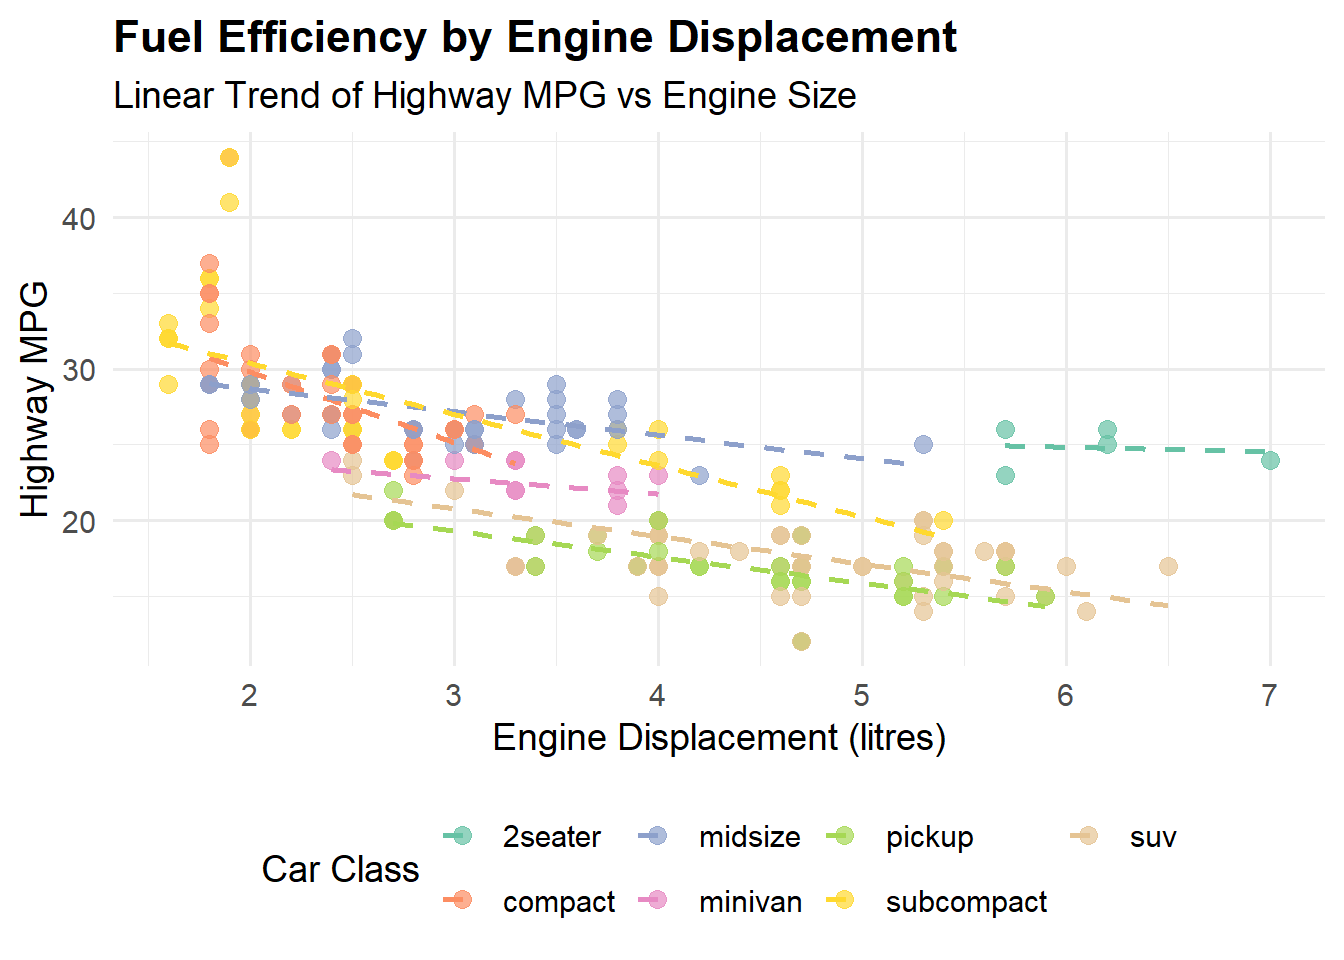
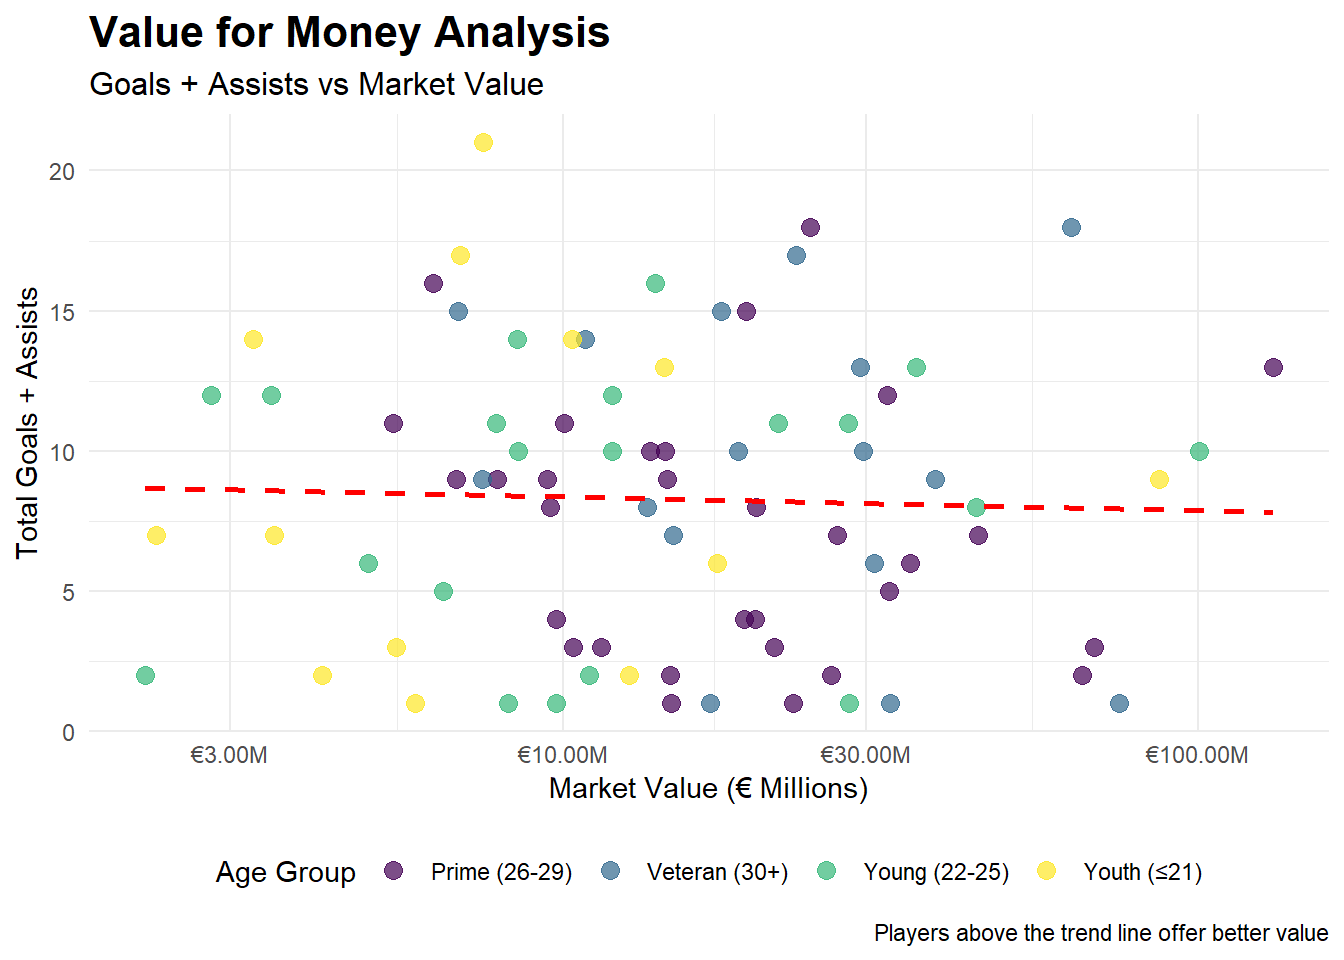
Built site for gh-pages

diff --git a/Class-2025.html b/Class-2025.html
@@ -6,6 +6,7 @@
 
 <meta name="viewport" content="width=device-width, initial-scale=1.0, user-scalable=yes">
 
+<meta name="author" content="M USMAN">
 
 <title>Economics Connectedness</title>
 <style>
@@ -53,6 +54,12 @@ ul.task-list li input[type="checkbox"] {
 
 <div class="quarto-title-meta">
 
+    <div>
+    <div class="quarto-title-meta-heading">Author</div>
+    <div class="quarto-title-meta-contents">
+             <p>M USMAN </p>
+          </div>
+  </div>
     
   
     
@@ -64,12 +71,158 @@ ul.task-list li input[type="checkbox"] {
 
 
 <div class="cell">
+<div class="cell-output cell-output-stdout">
+<pre><code>[1] "Creating Football Recruitment Dashboard..."</code></pre>
+</div>
 <div class="cell-output-display">
 <div>
 <figure class="figure">
 <p><img src="Class-2025_files/figure-html/unnamed-chunk-2-1.png" class="img-fluid figure-img" width="672"></p>
 </figure>
 </div>
+</div>
+<div class="cell-output-display">
+<div>
+<figure class="figure">
+<p><img src="Class-2025_files/figure-html/unnamed-chunk-2-2.png" class="img-fluid figure-img" width="672"></p>
+</figure>
+</div>
+</div>
+<div class="cell-output-display">
+<div>
+<figure class="figure">
+<p><img src="Class-2025_files/figure-html/unnamed-chunk-2-3.png" class="img-fluid figure-img" width="672"></p>
+</figure>
+</div>
+</div>
+<div class="cell-output-display">
+<div>
+<figure class="figure">
+<p><img src="Class-2025_files/figure-html/unnamed-chunk-2-4.png" class="img-fluid figure-img" width="672"></p>
+</figure>
+</div>
+</div>
+<div class="cell-output-display">
+<div>
+<figure class="figure">
+<p><img src="Class-2025_files/figure-html/unnamed-chunk-2-5.png" class="img-fluid figure-img" width="672"></p>
+</figure>
+</div>
+</div>
+<div class="cell-output-display">
+<div>
+<figure class="figure">
+<p><img src="Class-2025_files/figure-html/unnamed-chunk-2-6.png" class="img-fluid figure-img" width="672"></p>
+</figure>
+</div>
+</div>
+<div class="cell-output cell-output-stdout">
+<pre><code>
+=== RECRUITMENT INSIGHTS ===</code></pre>
+</div>
+<div class="cell-output cell-output-stdout">
+<pre><code>
+TOP VALUE PLAYERS (High performance, low cost):</code></pre>
+</div>
+<div class="cell-output cell-output-stdout">
+<pre><code>  player_name position age     league market_value goals assists value_score
+1   Player 64       CB  18    Ligue 1      3251542    12       2    4.305650
+2   Player 38      CDM  22 Bundesliga      2790588    12       0    4.300169
+3   Player 17       RB  22    Serie A      3473452     4       8    3.454776
+4    Player 5       ST  20 Bundesliga      2291984     7       0    3.054122
+5   Player 35       RB  18    Ligue 1      7493210    16       5    2.802537</code></pre>
+</div>
+<div class="cell-output cell-output-stdout">
+<pre><code>
+YOUNG TALENTS (Under 23 with high potential):</code></pre>
+</div>
+<div class="cell-output cell-output-stdout">
+<pre><code>  player_name age position         league overall_rating market_value
+1   Player 50  22       RW Premier League       87.39601      9776656
+2   Player 35  18       RB        Ligue 1       86.18502      7493210
+3   Player 58  22      CDM        La Liga       83.99666      4939699
+4   Player 63  19       CM        Ligue 1       83.30241     10357874
+5   Player 11  21      CDM Premier League       83.17302      4185651</code></pre>
+</div>
+<div class="cell-output cell-output-stdout">
+<pre><code>
+INJURY-FREE PERFORMERS (Low injury risk):</code></pre>
+</div>
+<div class="cell-output cell-output-stdout">
+<pre><code>  player_name position age injury_days overall_rating market_value
+1   Player 55       GK  26           2       86.16600      6253732
+2   Player 45       CB  26           3       81.57728     26448878
+3   Player 72      CDM  32          10       80.90582     18860733
+4   Player 34       GK  31           9       80.22906     32725826
+5    Player 2       LB  32           0       77.30638     30878337</code></pre>
+</div>
+<div class="cell-output cell-output-stdout">
+<pre><code>
+=== END OF ANALYSIS ===</code></pre>
+</div>
+</div>
+<div class="cell">
+<div class="cell-output-display">
+<div>
+<figure class="figure">
+<p><img src="Class-2025_files/figure-html/unnamed-chunk-3-1.png" class="img-fluid figure-img" width="672"></p>
+</figure>
+</div>
+</div>
+<div class="cell-output cell-output-stdout">
+<pre><code>
+INTERPRETING THE VISUALIZATION:
+
+This compelling visualization reveals the profound relationship between economic prosperity 
+and human health outcomes across the globe. The clear upward trajectory demonstrates that 
+as GDP per capita increases, life expectancy consistently rises, suggesting that economic 
+development translates into better healthcare, nutrition, sanitation, and living conditions. 
+
+The logarithmic scale on the x-axis reveals that the most dramatic health improvements occur 
+when countries transition from extreme poverty to lower-middle income status - moving from 
+$500 to $5,000 per capita yields greater life expectancy gains than moving from $5,000 to 
+$50,000. This pattern highlights the critical importance of addressing basic needs and 
+infrastructure in developing nations.
+
+Continental clustering patterns are particularly striking: African nations predominantly 
+occupy the lower-left quadrant with lower GDP and life expectancy, while European countries 
+cluster in the upper-right with high values for both metrics. Asian countries show the 
+greatest diversity, spanning the entire spectrum and representing various stages of 
+development. The Americas display a clear north-south divide, with North American countries 
+achieving higher outcomes than their southern counterparts.
+
+Notably, some countries defy the general trend - appearing as outliers that achieve 
+relatively high life expectancy despite modest economic resources, often reflecting 
+effective public health policies, while others underperform relative to their wealth, 
+possibly due to inequality or policy failures. The bubble sizes remind us that population 
+scale matters: improvements in large countries like China and India have enormous global 
+impact, while smaller nations may achieve impressive per-capita metrics without affecting 
+global averages significantly.
+
+This visualization ultimately underscores both the promise and challenge of global 
+development: while the path from poverty to prosperity generally leads to better health 
+outcomes, the journey is neither automatic nor uniform across regions and cultures.</code></pre>
+</div>
+</div>
+<div class="cell">
+<div class="cell-output-display">
+<div>
+<figure class="figure">
+<p><img src="Class-2025_files/figure-html/unnamed-chunk-4-1.png" class="img-fluid figure-img" width="672"></p>
+</figure>
+</div>
+</div>
+<div class="cell-output cell-output-stdout">
+<pre><code>
+📈 DEFENSIVE EXCELLENCE BREAKDOWN:
+
+Top 3 Performers:
+1⃣ Alessandro Bastoni ( Inter Milan ) - Score: 75.8 
+2⃣ Pau Cubarsi ( Barcelona ) - Score: 66.7   
+3⃣ Kim Min-jae ( Bayern Munich ) - Score: 57.7 
+
+🏴 Premier League dominance with 5 players in top 10
+🇮🇹 Serie A, 🇪🇸 La Liga representation showcasing European defensive quality</code></pre>
 </div>
 </div>
 

diff --git a/index.html b/index.html
@@ -6,6 +6,7 @@
 
 <meta name="viewport" content="width=device-width, initial-scale=1.0, user-scalable=yes">
 
+<meta name="author" content="M USMAN">
 
 <title>Economics Connectedness</title>
 <style>
@@ -53,6 +54,12 @@ ul.task-list li input[type="checkbox"] {
 
 <div class="quarto-title-meta">
 
+    <div>
+    <div class="quarto-title-meta-heading">Author</div>
+    <div class="quarto-title-meta-contents">
+             <p>M USMAN </p>
+          </div>
+  </div>
     
   
     
@@ -64,12 +71,158 @@ ul.task-list li input[type="checkbox"] {
 
 
 <div class="cell">
+<div class="cell-output cell-output-stdout">
+<pre><code>[1] "Creating Football Recruitment Dashboard..."</code></pre>
+</div>
 <div class="cell-output-display">
 <div>
 <figure class="figure">
 <p><img src="Class-2025_files/figure-html/unnamed-chunk-2-1.png" class="img-fluid figure-img" width="672"></p>
 </figure>
 </div>
+</div>
+<div class="cell-output-display">
+<div>
+<figure class="figure">
+<p><img src="Class-2025_files/figure-html/unnamed-chunk-2-2.png" class="img-fluid figure-img" width="672"></p>
+</figure>
+</div>
+</div>
+<div class="cell-output-display">
+<div>
+<figure class="figure">
+<p><img src="Class-2025_files/figure-html/unnamed-chunk-2-3.png" class="img-fluid figure-img" width="672"></p>
+</figure>
+</div>
+</div>
+<div class="cell-output-display">
+<div>
+<figure class="figure">
+<p><img src="Class-2025_files/figure-html/unnamed-chunk-2-4.png" class="img-fluid figure-img" width="672"></p>
+</figure>
+</div>
+</div>
+<div class="cell-output-display">
+<div>
+<figure class="figure">
+<p><img src="Class-2025_files/figure-html/unnamed-chunk-2-5.png" class="img-fluid figure-img" width="672"></p>
+</figure>
+</div>
+</div>
+<div class="cell-output-display">
+<div>
+<figure class="figure">
+<p><img src="Class-2025_files/figure-html/unnamed-chunk-2-6.png" class="img-fluid figure-img" width="672"></p>
+</figure>
+</div>
+</div>
+<div class="cell-output cell-output-stdout">
+<pre><code>
+=== RECRUITMENT INSIGHTS ===</code></pre>
+</div>
+<div class="cell-output cell-output-stdout">
+<pre><code>
+TOP VALUE PLAYERS (High performance, low cost):</code></pre>
+</div>
+<div class="cell-output cell-output-stdout">
+<pre><code>  player_name position age     league market_value goals assists value_score
+1   Player 64       CB  18    Ligue 1      3251542    12       2    4.305650
+2   Player 38      CDM  22 Bundesliga      2790588    12       0    4.300169
+3   Player 17       RB  22    Serie A      3473452     4       8    3.454776
+4    Player 5       ST  20 Bundesliga      2291984     7       0    3.054122
+5   Player 35       RB  18    Ligue 1      7493210    16       5    2.802537</code></pre>
+</div>
+<div class="cell-output cell-output-stdout">
+<pre><code>
+YOUNG TALENTS (Under 23 with high potential):</code></pre>
+</div>
+<div class="cell-output cell-output-stdout">
+<pre><code>  player_name age position         league overall_rating market_value
+1   Player 50  22       RW Premier League       87.39601      9776656
+2   Player 35  18       RB        Ligue 1       86.18502      7493210
+3   Player 58  22      CDM        La Liga       83.99666      4939699
+4   Player 63  19       CM        Ligue 1       83.30241     10357874
+5   Player 11  21      CDM Premier League       83.17302      4185651</code></pre>
+</div>
+<div class="cell-output cell-output-stdout">
+<pre><code>
+INJURY-FREE PERFORMERS (Low injury risk):</code></pre>
+</div>
+<div class="cell-output cell-output-stdout">
+<pre><code>  player_name position age injury_days overall_rating market_value
+1   Player 55       GK  26           2       86.16600      6253732
+2   Player 45       CB  26           3       81.57728     26448878
+3   Player 72      CDM  32          10       80.90582     18860733
+4   Player 34       GK  31           9       80.22906     32725826
+5    Player 2       LB  32           0       77.30638     30878337</code></pre>
+</div>
+<div class="cell-output cell-output-stdout">
+<pre><code>
+=== END OF ANALYSIS ===</code></pre>
+</div>
+</div>
+<div class="cell">
+<div class="cell-output-display">
+<div>
+<figure class="figure">
+<p><img src="Class-2025_files/figure-html/unnamed-chunk-3-1.png" class="img-fluid figure-img" width="672"></p>
+</figure>
+</div>
+</div>
+<div class="cell-output cell-output-stdout">
+<pre><code>
+INTERPRETING THE VISUALIZATION:
+
+This compelling visualization reveals the profound relationship between economic prosperity 
+and human health outcomes across the globe. The clear upward trajectory demonstrates that 
+as GDP per capita increases, life expectancy consistently rises, suggesting that economic 
+development translates into better healthcare, nutrition, sanitation, and living conditions. 
+
+The logarithmic scale on the x-axis reveals that the most dramatic health improvements occur 
+when countries transition from extreme poverty to lower-middle income status - moving from 
+$500 to $5,000 per capita yields greater life expectancy gains than moving from $5,000 to 
+$50,000. This pattern highlights the critical importance of addressing basic needs and 
+infrastructure in developing nations.
+
+Continental clustering patterns are particularly striking: African nations predominantly 
+occupy the lower-left quadrant with lower GDP and life expectancy, while European countries 
+cluster in the upper-right with high values for both metrics. Asian countries show the 
+greatest diversity, spanning the entire spectrum and representing various stages of 
+development. The Americas display a clear north-south divide, with North American countries 
+achieving higher outcomes than their southern counterparts.
+
+Notably, some countries defy the general trend - appearing as outliers that achieve 
+relatively high life expectancy despite modest economic resources, often reflecting 
+effective public health policies, while others underperform relative to their wealth, 
+possibly due to inequality or policy failures. The bubble sizes remind us that population 
+scale matters: improvements in large countries like China and India have enormous global 
+impact, while smaller nations may achieve impressive per-capita metrics without affecting 
+global averages significantly.
+
+This visualization ultimately underscores both the promise and challenge of global 
+development: while the path from poverty to prosperity generally leads to better health 
+outcomes, the journey is neither automatic nor uniform across regions and cultures.</code></pre>
+</div>
+</div>
+<div class="cell">
+<div class="cell-output-display">
+<div>
+<figure class="figure">
+<p><img src="Class-2025_files/figure-html/unnamed-chunk-4-1.png" class="img-fluid figure-img" width="672"></p>
+</figure>
+</div>
+</div>
+<div class="cell-output cell-output-stdout">
+<pre><code>
+📈 DEFENSIVE EXCELLENCE BREAKDOWN:
+
+Top 3 Performers:
+1⃣ Alessandro Bastoni ( Inter Milan ) - Score: 75.8 
+2⃣ Pau Cubarsi ( Barcelona ) - Score: 66.7   
+3⃣ Kim Min-jae ( Bayern Munich ) - Score: 57.7 
+
+🏴 Premier League dominance with 5 players in top 10
+🇮🇹 Serie A, 🇪🇸 La Liga representation showcasing European defensive quality</code></pre>
 </div>
 </div>
 
